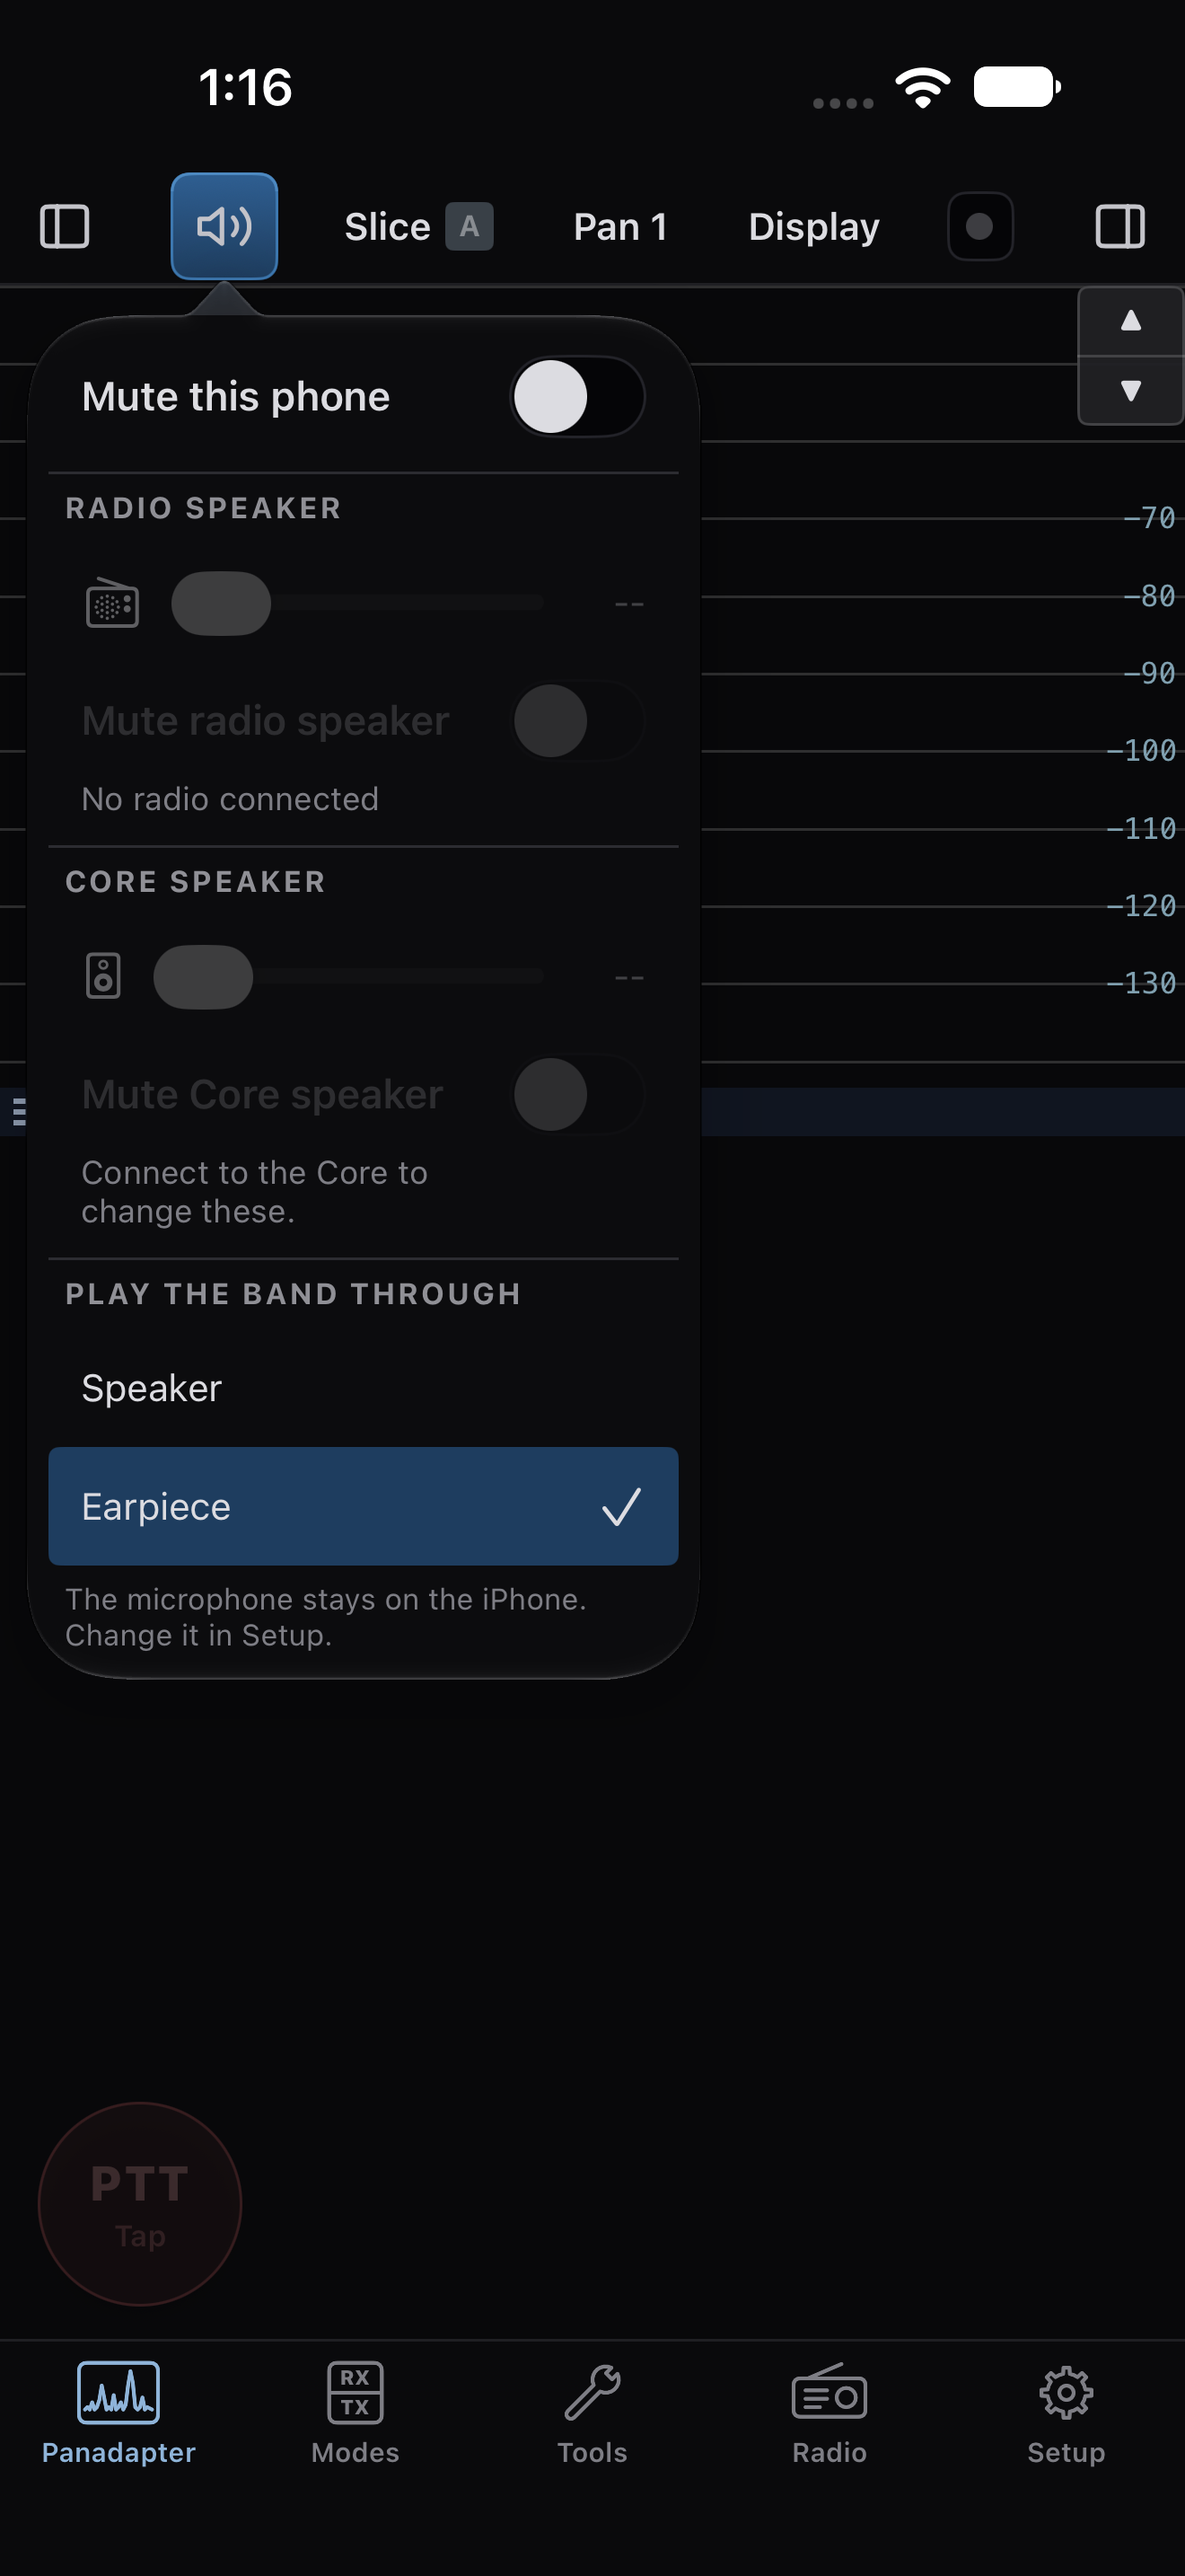
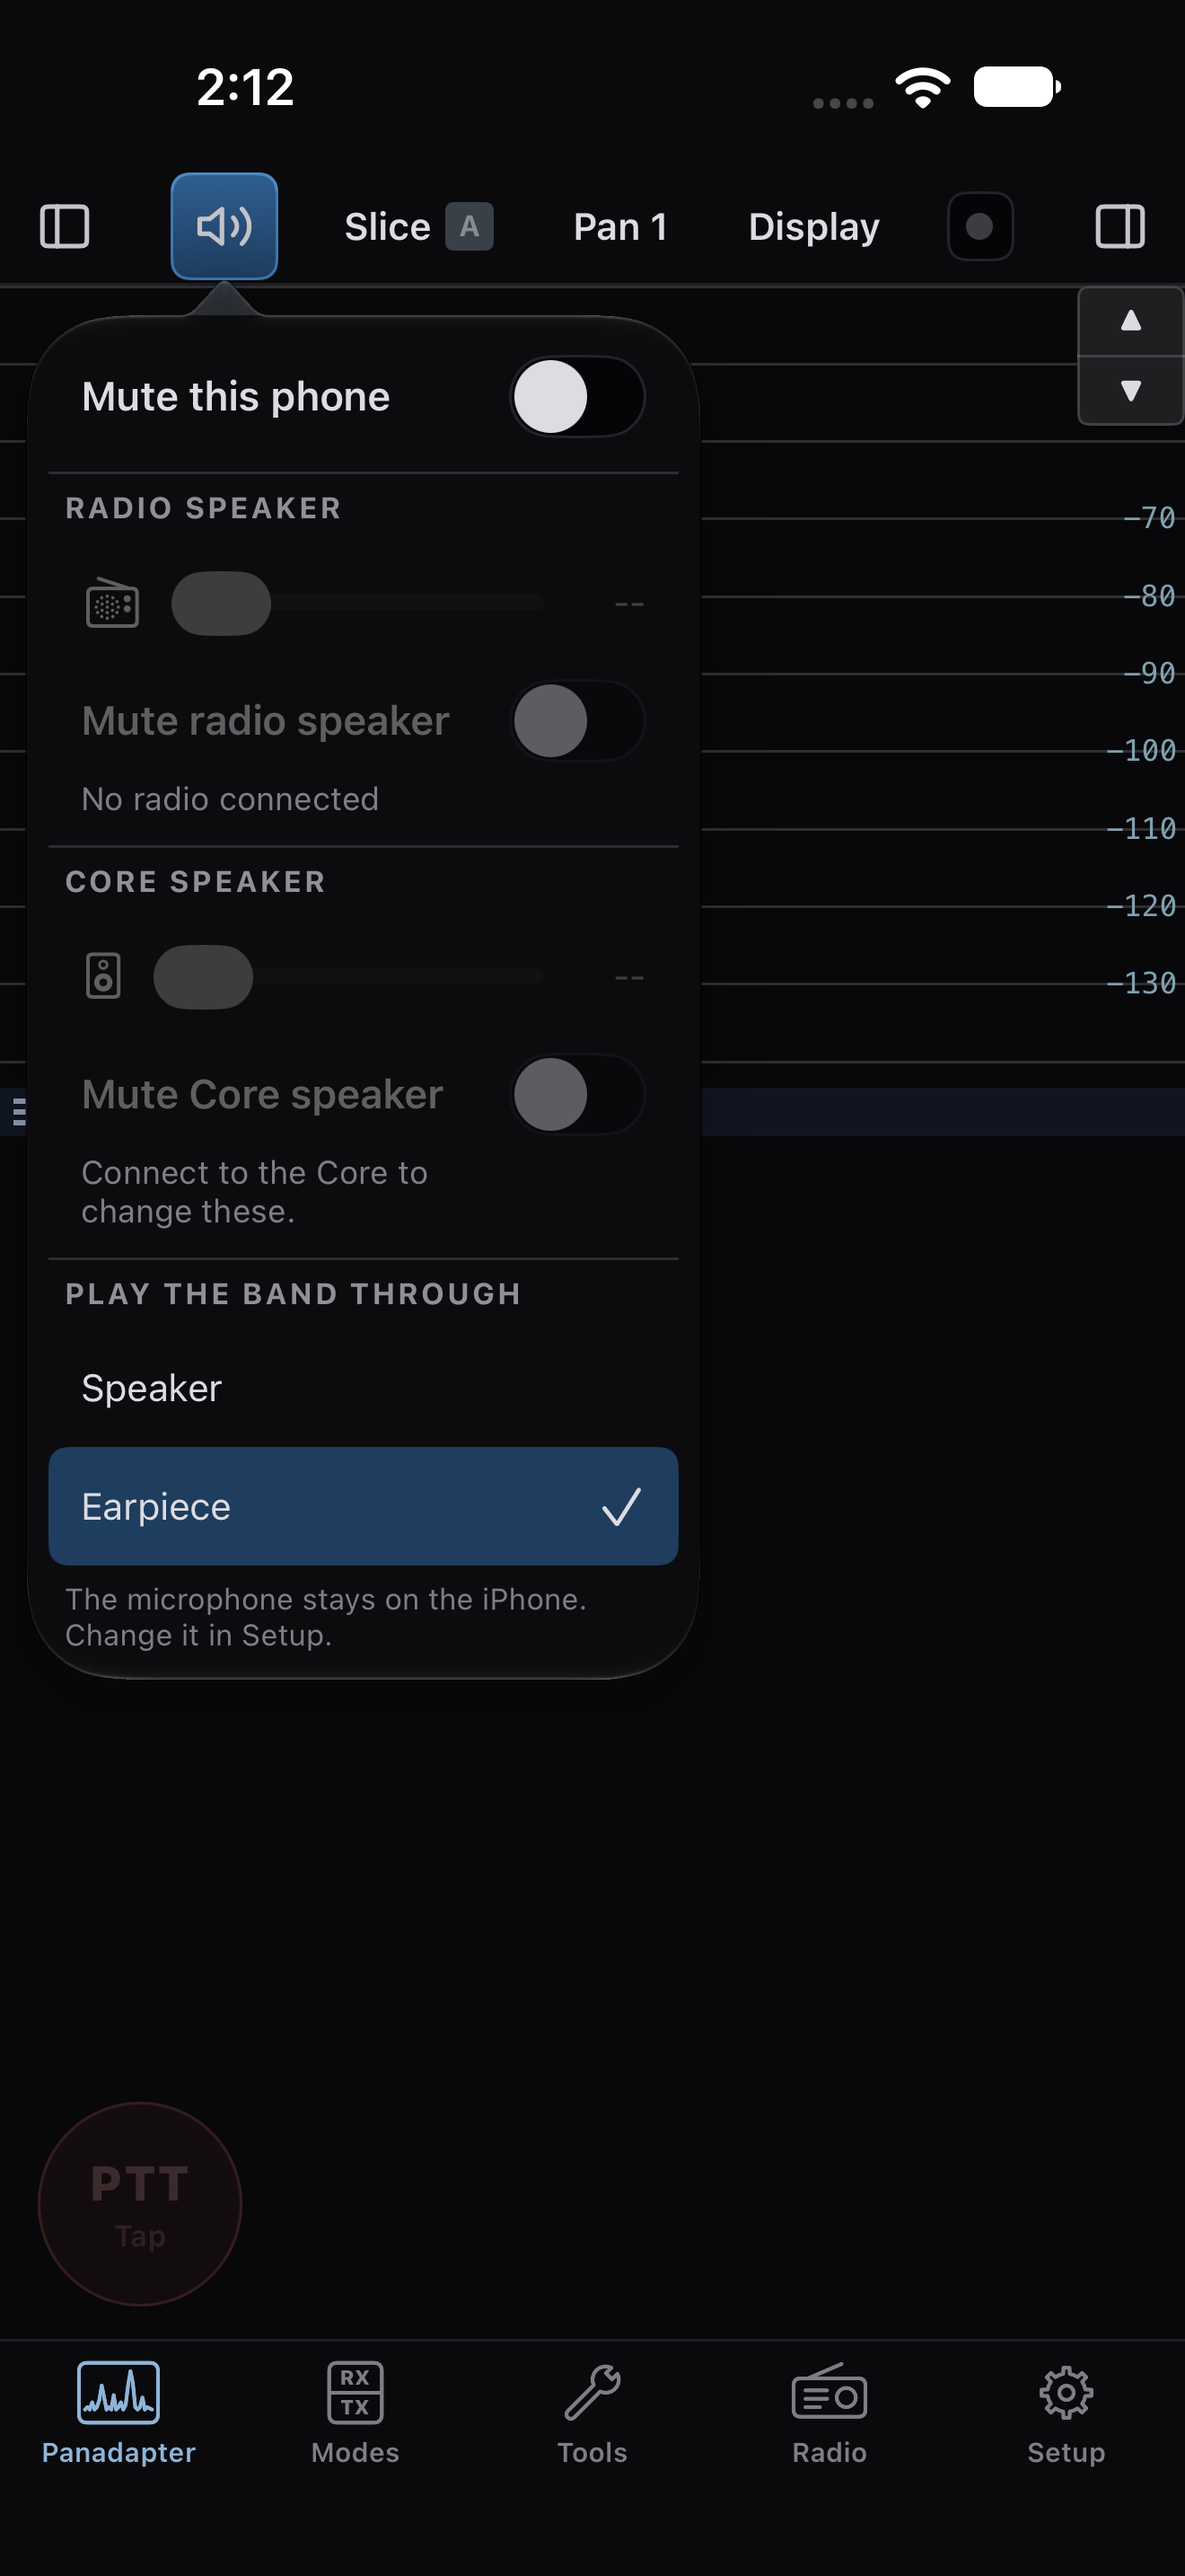
docs: the Sound images recaptured after the re-review
The Sound popover's switch rows now grey once, at 0.4, and the picked
output row rounds at 7. Provenance, the images README and the website
copies follow. No manual image shows a Setup slider.

diff --git a/docs/manual/images/README.md b/docs/manual/images/README.md
@@ -117,7 +117,9 @@ the sizes of the 1 October originals: an iPhone 17 simulator for most, an
 iPhone 18 Pro Max simulator for **Sound**. On 22 October, after the final
 review's fixes (the workspace switch in every presentation, accent text and
 the 7 and 10 radii), all of them except Devices were recaptured again from
-branch `claude/ios-workspace-look` at `45c52b2dd`; Devices did not change. [Capture provenance](capture-provenance.json)
+branch `claude/ios-workspace-look` at `45c52b2dd`; Devices did not change. The two
+Sound images were recaptured once more at `fb8cebe45`, after the re-review
+(the Sound switch rows greyed once, the output row's corner at 7). [Capture provenance](capture-provenance.json)
 records each image's test, hash and build. **Sound** is a screenshot of the full running app driven by
 `XCUIApplication`. The other phone images render the application’s actual
 SwiftUI screens in a simulator window with test services or simulated Core

diff --git a/website/public/manual/images/README.md b/website/public/manual/images/README.md
@@ -117,7 +117,9 @@ the sizes of the 1 October originals: an iPhone 17 simulator for most, an
 iPhone 18 Pro Max simulator for **Sound**. On 22 October, after the final
 review's fixes (the workspace switch in every presentation, accent text and
 the 7 and 10 radii), all of them except Devices were recaptured again from
-branch `claude/ios-workspace-look` at `45c52b2dd`; Devices did not change. [Capture provenance](capture-provenance.json)
+branch `claude/ios-workspace-look` at `45c52b2dd`; Devices did not change. The two
+Sound images were recaptured once more at `fb8cebe45`, after the re-review
+(the Sound switch rows greyed once, the output row's corner at 7). [Capture provenance](capture-provenance.json)
 records each image's test, hash and build. **Sound** is a screenshot of the full running app driven by
 `XCUIApplication`. The other phone images render the application’s actual
 SwiftUI screens in a simulator window with test services or simulated Core
